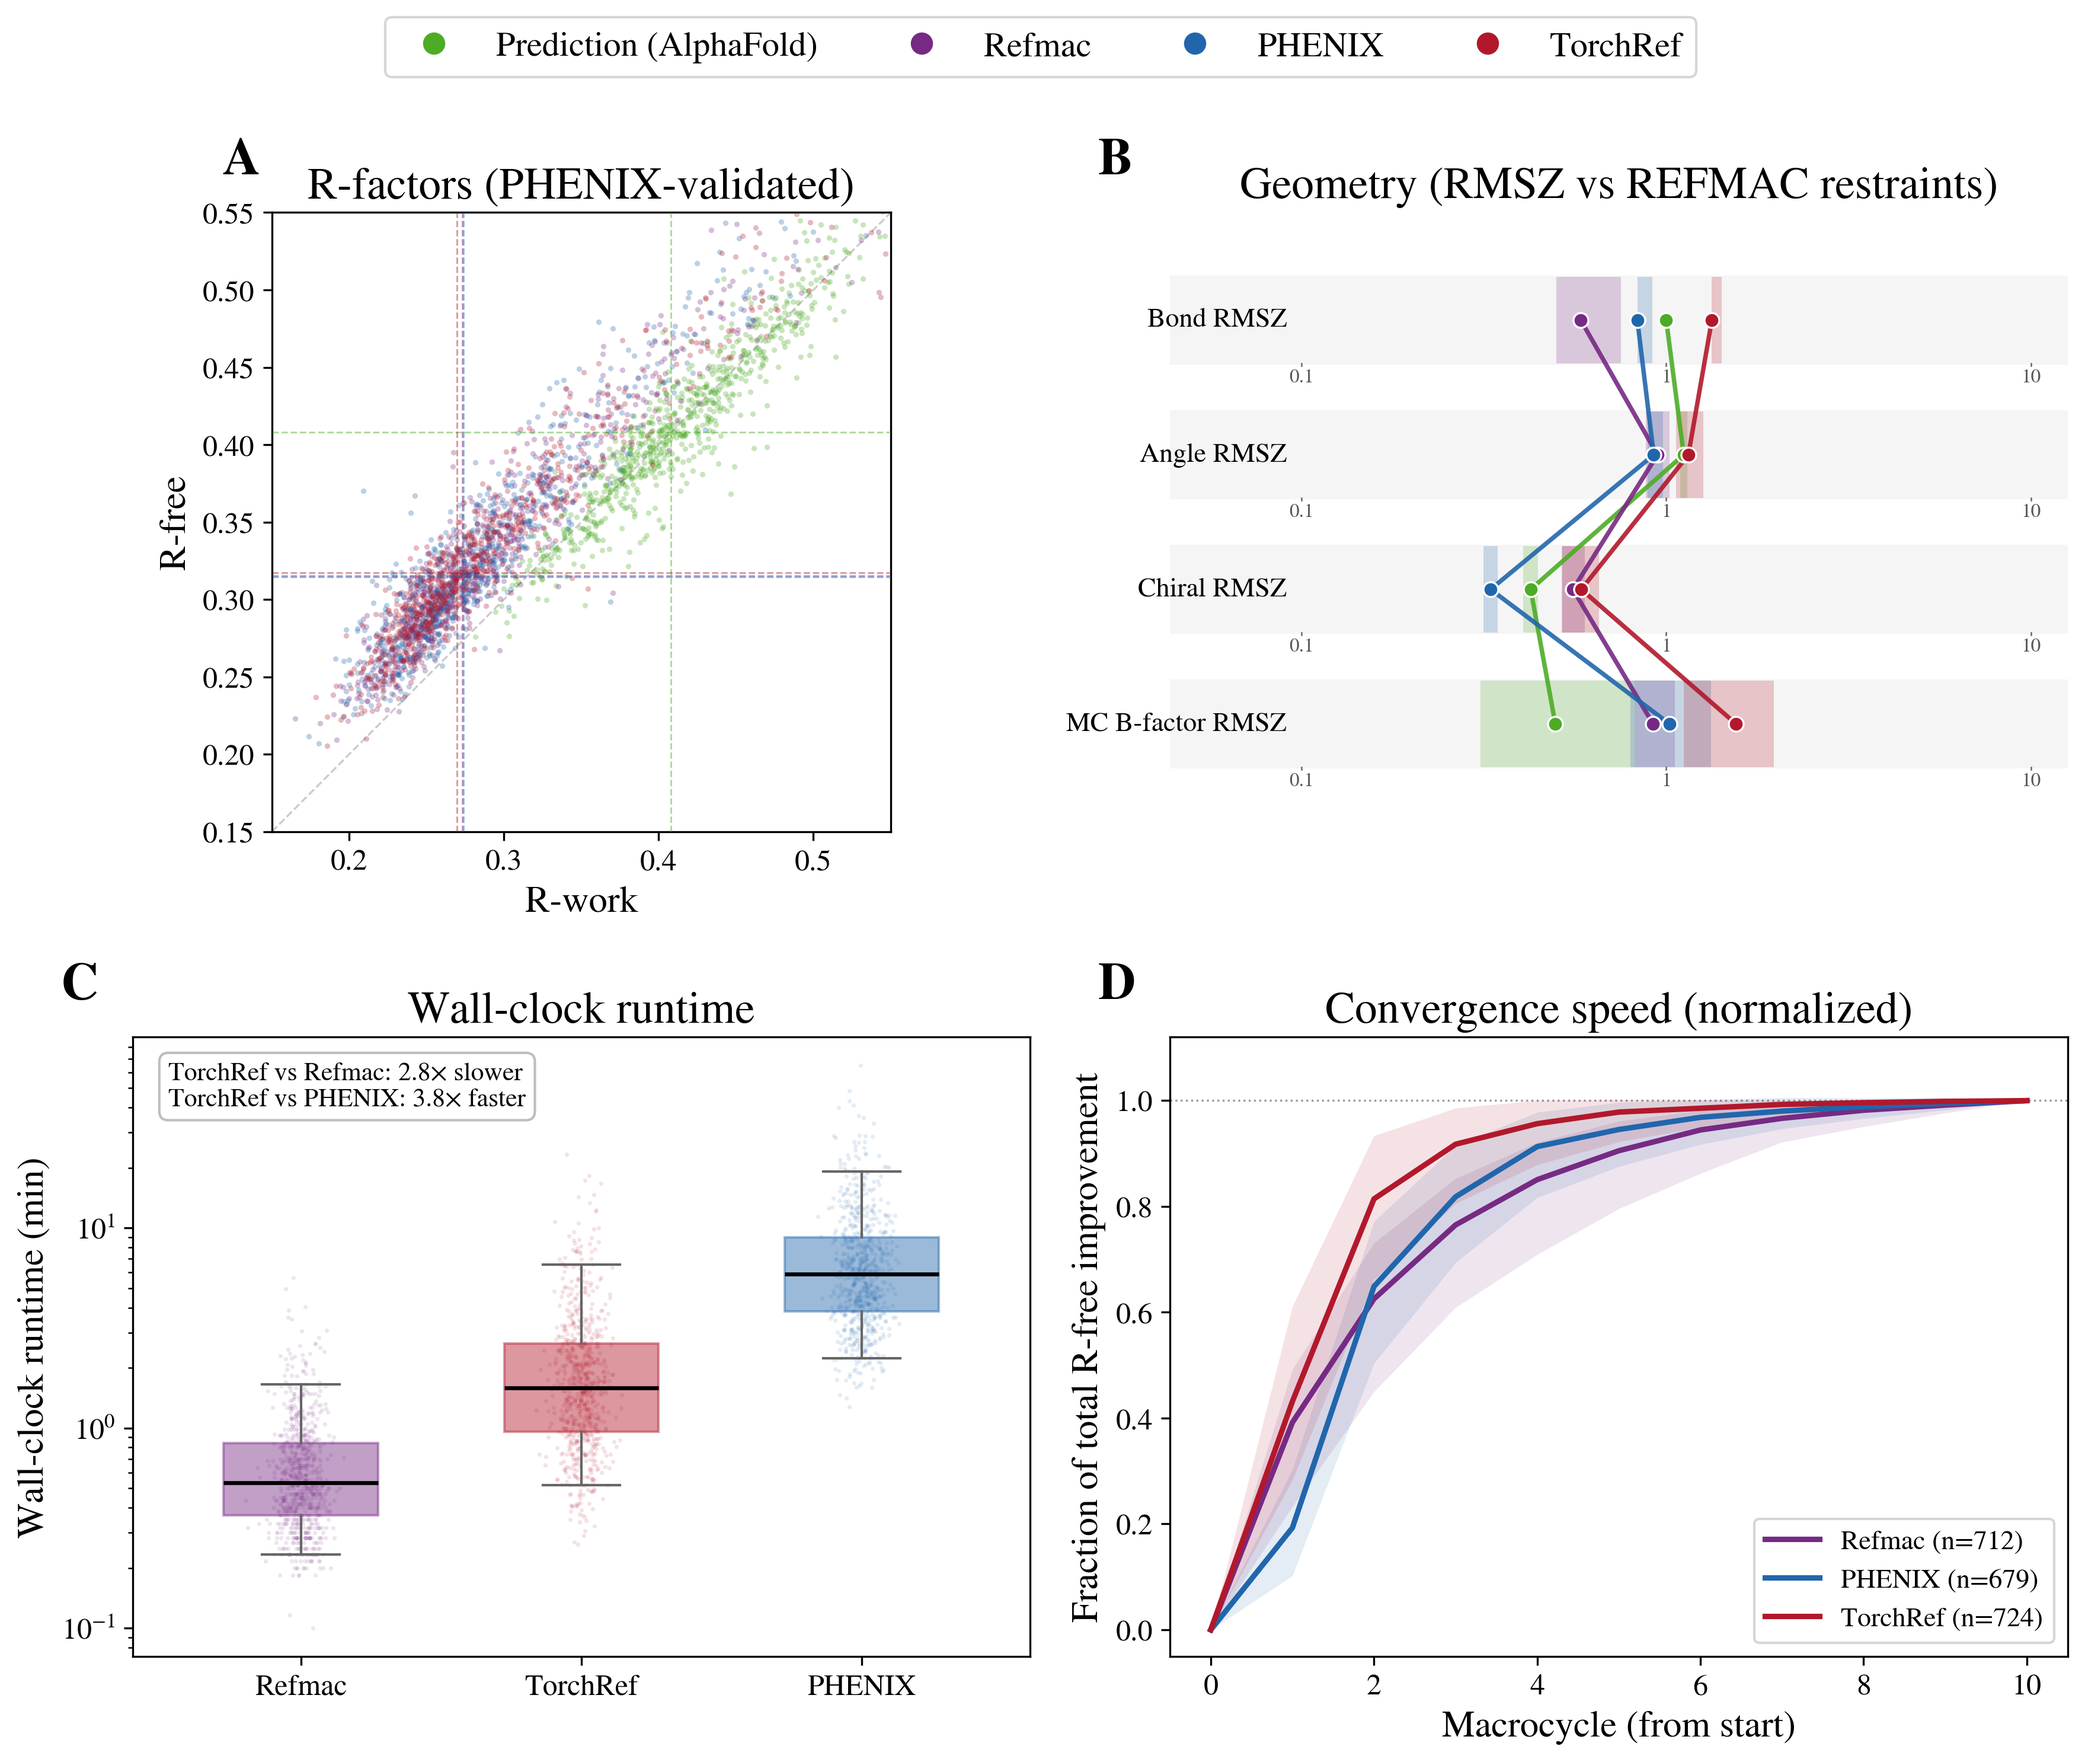
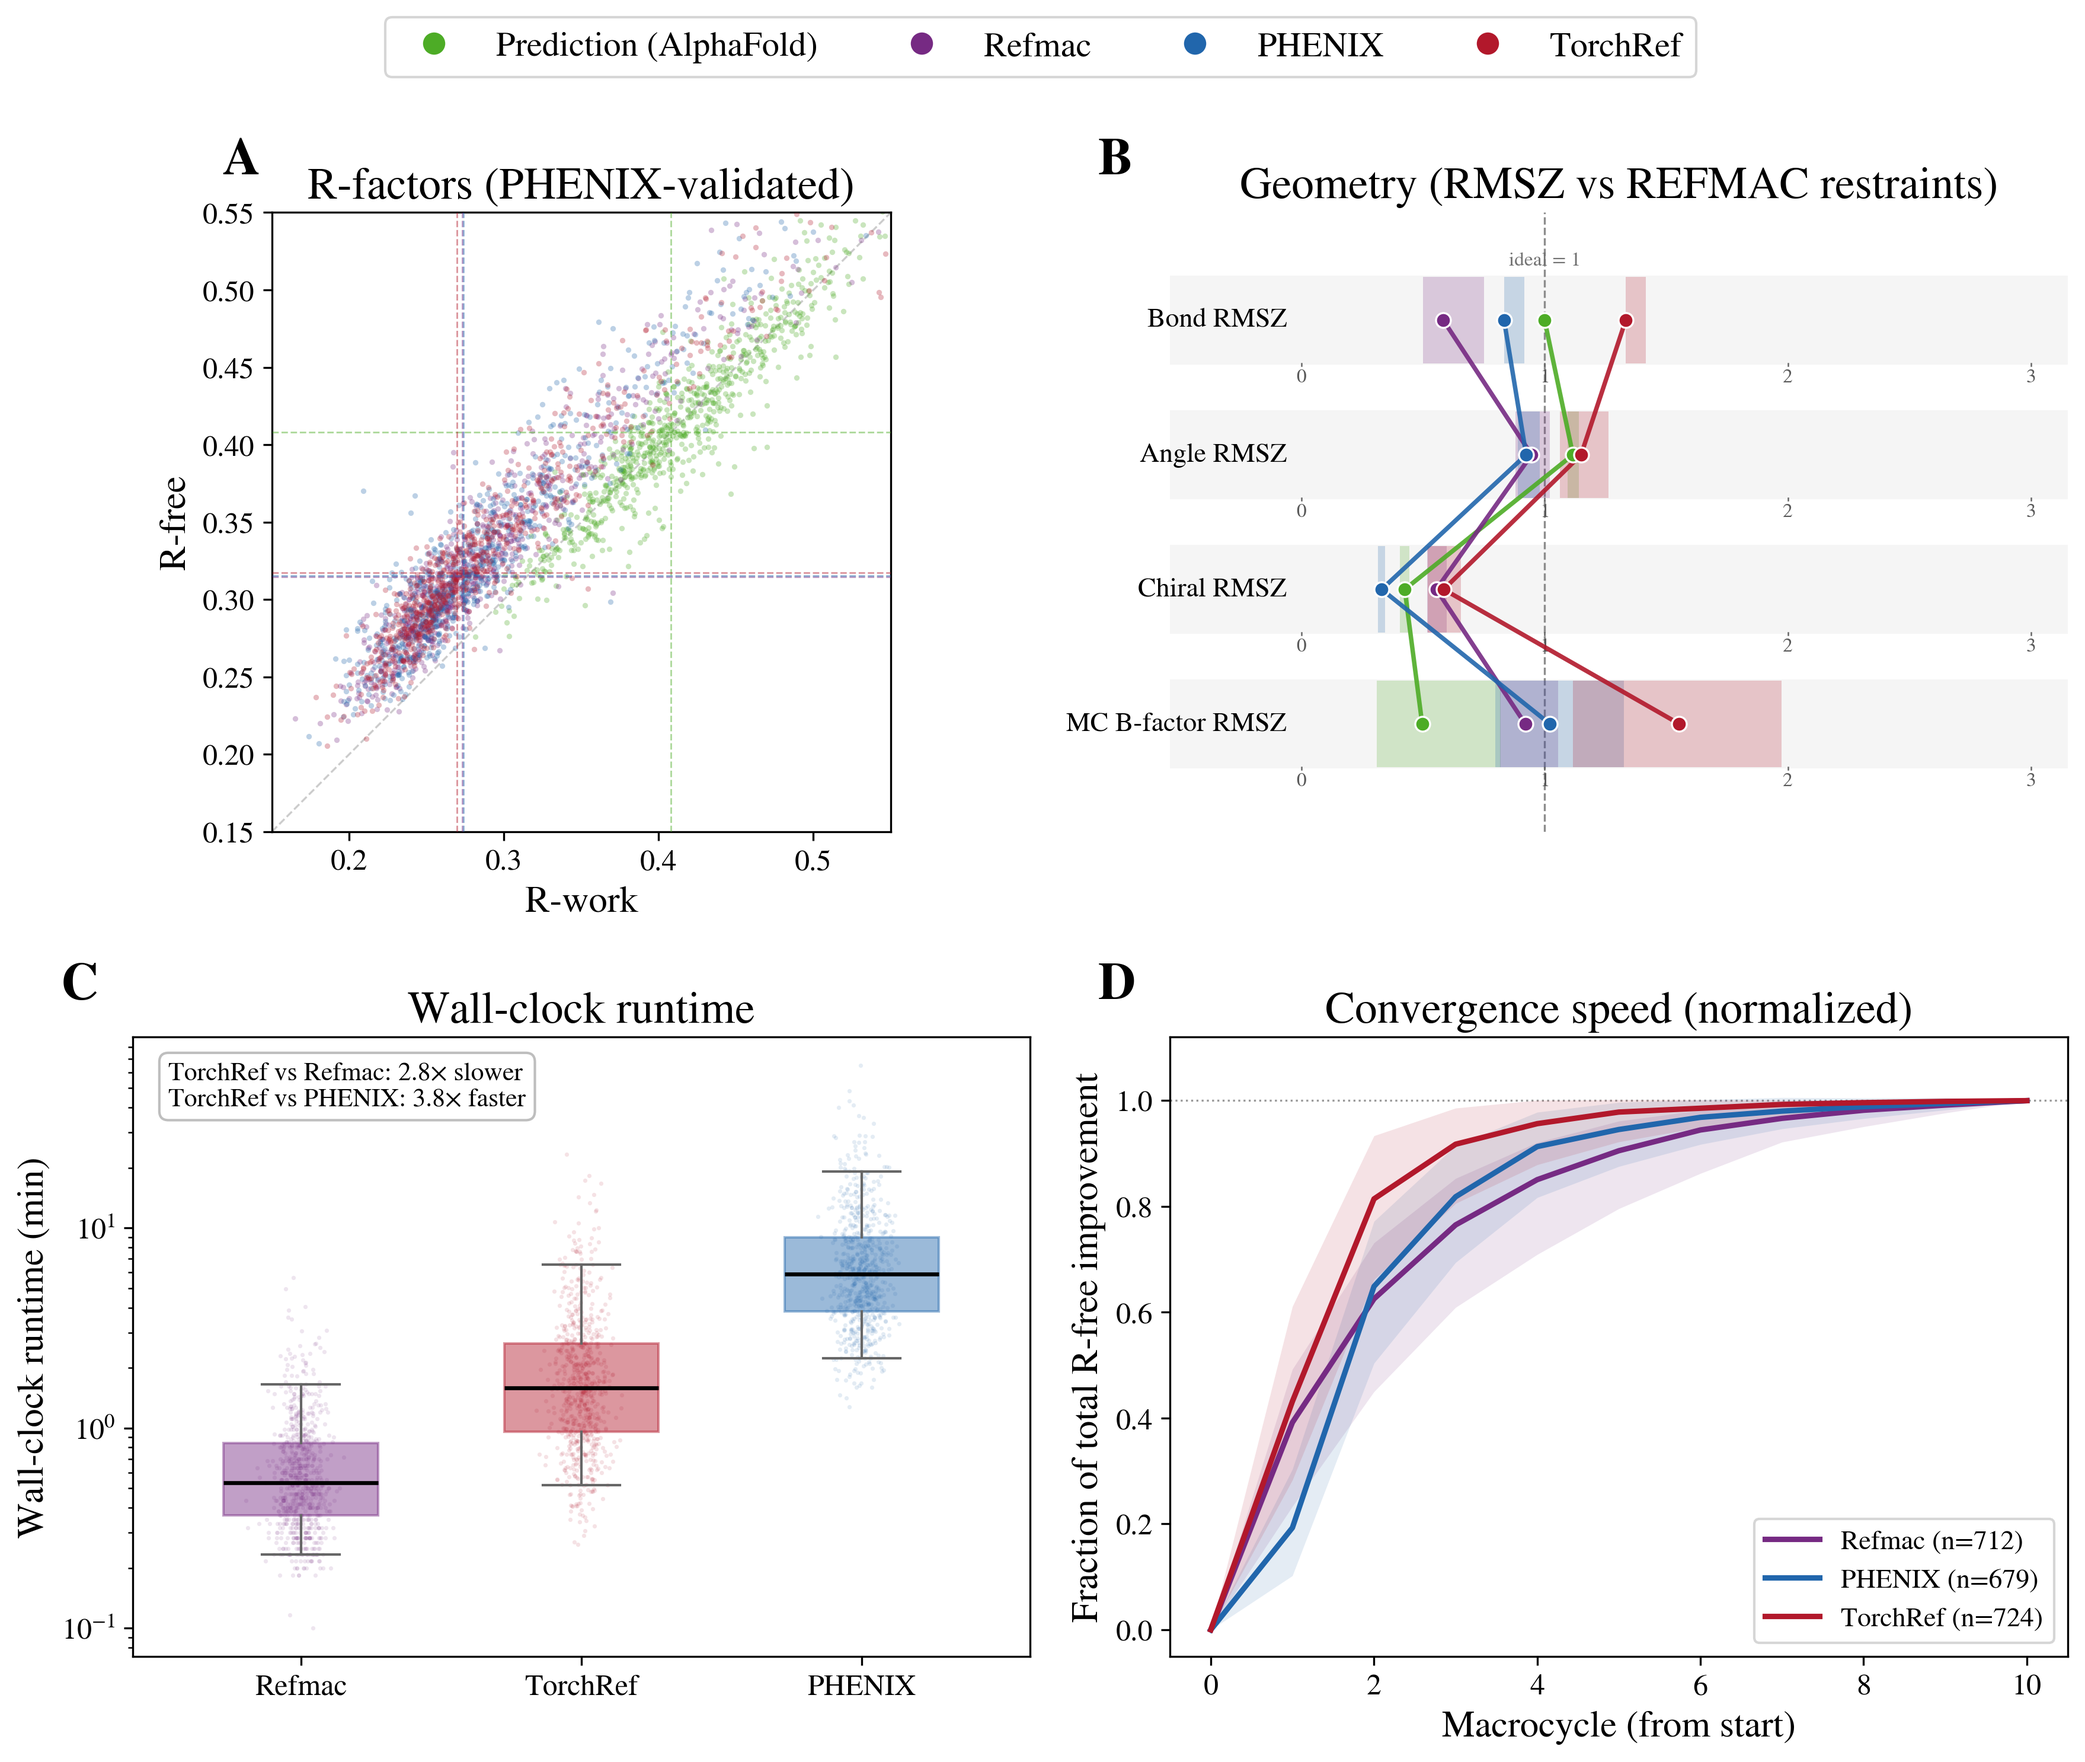
Updated axis in figure 2b and added figures to github

Changed region(s): [[0.6507, 0.1548, 0.8675, 0.4334]]

diff --git a/paper/figure2_alphafold_start/plot_figure_af.py b/paper/figure2_alphafold_start/plot_figure_af.py
@@ -87,7 +87,7 @@ def plot_quality_strips(ax, by_engine):
     labels = ["Bond RMSZ", "Angle RMSZ", "Chiral RMSZ", "MC B-factor RMSZ"]
     sigma_col = {"rmsBOND": "sigBOND", "rmsANGL": "sigANGL",
                  "rmsCHIRAL": "sigCHIRAL", "rmsB_mc_bond": "sigB_mc_bond"}
-    bounds = {m: (0.1, 10.0) for m in metrics}  # RMSZ, log-normalized
+    bounds = {m: (0.0, 3.0) for m in metrics}  # RMSZ, linear 0–3
 
     def rmsz(df, m):
         sub = df[[m, sigma_col[m]]].dropna()
@@ -96,19 +96,20 @@ def plot_quality_strips(ax, by_engine):
             out = np.where(sig > 0, sub[m].values / sig, np.nan)
         return out[~np.isnan(out)]
 
-    LOG_FLOOR = 1e-3
-
     def to_x(m, v):
         lo, hi = bounds[m]
-        lo_l, hi_l = np.log10(lo), np.log10(hi)
-        v_l = np.log10(np.maximum(v, LOG_FLOOR))
-        return np.clip((v_l - lo_l) / (hi_l - lo_l + 1e-12), 0.0, 1.0)
+        return np.clip((v - lo) / (hi - lo + 1e-12), 0.0, 1.0)
 
     n = len(metrics)
     y_positions = np.arange(n)[::-1].astype(float)
     row_half = 0.32
     for y in y_positions:
         ax.axhspan(y - row_half, y + row_half, color="0.96", zorder=0)
+    # all rows share the linear 0–3 scale, so one guide marks the ideal RMSZ = 1
+    ideal_x = to_x(metrics[0], 1.0)
+    ax.axvline(ideal_x, color="0.55", ls="--", lw=0.8, zorder=1)
+    ax.text(ideal_x, n - 1 + row_half + 0.06, "ideal = 1", ha="center",
+            va="bottom", fontsize=8, color="0.45")
 
     for engine, _, color in ENGINES:
         df = by_engine.get(engine)
@@ -133,10 +134,10 @@ def plot_quality_strips(ax, by_engine):
     for i, (m, label) in enumerate(zip(metrics, labels)):
         y = y_positions[i]
         lo, hi = bounds[m]
-        geo_mid = np.sqrt(lo * hi)
         ax.text(-0.02, y, label, ha="right", va="center", fontsize=11)
         tick_y = y - row_half - 0.04
-        for x_frac, val in [(0.0, lo), (0.5, geo_mid), (1.0, hi)]:
+        for val in (0, 1, 2, 3):
+            x_frac = (val - lo) / (hi - lo)
             ax.plot([x_frac, x_frac], [y - row_half, y - row_half - 0.02],
                     color="0.4", lw=0.6, clip_on=False)
             ax.text(x_frac, tick_y, f"{val:g}", ha="center", va="top",
